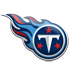
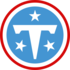
Fix standings download, updated TEN image

diff --git a/file_downloader.rb b/file_downloader.rb
@@ -1,21 +1,85 @@
 require 'open-uri'
+require 'nokogiri'
 require_relative 'file_helper_methods'
 
 include FileHelperMethods
 
 class FileDownloader
+  STANDINGS_URL = 'https://www.nfl.com/standings/'
+
+  # NFL.com uses some abbreviations that differ from Pro-Football-Reference.
+  # Map them so the existing standings resolver can match the config files.
+  ABBREVIATION_MAP = {
+    'AZ'  => 'ARI',
+    'LA'  => 'LAR',
+    'NE'  => 'NWE',
+    'GB'  => 'GNB',
+    'NO'  => 'NOR',
+    'TB'  => 'TAM',
+    'KC'  => 'KAN',
+    'LV'  => 'LVR',
+    'SF'  => 'SFO'
+  }.freeze
+
   def self.get_current_nfl_standings_html
-    file_data = URI.open("https://www.pro-football-reference.com/").read
-    afc = self.parse_section(file_data, /\<div.*id=\"div_AFC\">/)
-    nfc = self.parse_section(file_data, /\<div.*id=\"div_NFC\">/)
-    afc + nfc
+    html = URI.open(STANDINGS_URL, 'User-Agent' => user_agent).read
+    build_standings_html(Nokogiri::HTML(html))
   end
 
-  def self.parse_section(file_data, start_regex)
-    critical_section_start_position = file_data.match(start_regex).begin(0)
-    critical_section_start = file_data[critical_section_start_position..]
-    end_regex = /\<\/div\>/
-    critical_section_end_position = critical_section_start.match(end_regex).end(0)
-    critical_section = critical_section_start[0..critical_section_end_position]
+  def self.build_standings_html(document)
+    afc_rows = []
+    nfc_rows = []
+
+    document.css('table.d3-o-standings--detailed').each do |table|
+      header_text = table.at_css('thead th')&.text.to_s
+      conference = conference_from_header(header_text)
+      next unless conference
+
+      table.css('tbody tr').each do |row|
+        tds = row.css('td')
+        next if tds.size < 4
+
+        team_abbr = extract_team_abbreviation(row)
+        next unless team_abbr
+
+        row_html = build_team_row(team_abbr, tds)
+        if conference == 'AFC'
+          afc_rows << row_html
+        else
+          nfc_rows << row_html
+        end
+      end
+    end
+
+    wrap_table('AFC', afc_rows) + wrap_table('NFC', nfc_rows)
+  end
+
+  def self.extract_team_abbreviation(row)
+    logo_src = row.at_css('img')&.[]('src')
+    return unless logo_src
+
+    logo_src[/logos\/(\w+)/, 1]&.upcase
+  end
+
+  def self.conference_from_header(header_text)
+    return 'AFC' if header_text.start_with?('AFC')
+    return 'NFC' if header_text.start_with?('NFC')
+  end
+
+  def self.build_team_row(abbreviation, cells)
+    team_code = ABBREVIATION_MAP.fetch(abbreviation, abbreviation)
+    wins = cells[1].text.strip
+    losses = cells[2].text.strip
+    ties = cells[3].text.strip
+
+    %(<tr><th scope="row"><a>#{team_code}</a></th><td data-stat="wins">#{wins}</td><td data-stat="losses">#{losses}</td><td data-stat="ties">#{ties}</td></tr>)
+  end
+
+  def self.wrap_table(conference, rows)
+    %(<div class="table_container" id="div_#{conference}"><table id="#{conference}"><tbody>#{rows.join}</tbody></table></div>)
+  end
+
+  def self.user_agent
+    'Mozilla/5.0 (Windows NT 10.0; Win64; x64) AppleWebKit/537.36 (KHTML, like Gecko) Chrome/128.0.0.0 Safari/537.36'
   end
 end

diff --git a/standings_resolver.rb b/standings_resolver.rb
@@ -23,7 +23,7 @@ class StandingsResolver
         memo[:wins] += team[:wins].to_i
         memo[:losses] += team[:losses].to_i
         memo[:ties] += team[:ties].to_i
-        memo[:games] += memo[:wins].to_i + memo[:losses].to_i + memo[:ties].to_i
+        memo[:games] += team[:wins].to_i + team[:losses].to_i + team[:ties].to_i
         memo
       end
       owner_totals[:teams] = selected_teams.sort{|a, b| a[:wins] <=> b[:wins]}

diff --git a/html_resolver.rb b/html_resolver.rb
@@ -6,7 +6,7 @@ class HtmlResolver
     standings_file = File.open('./html/standings.erb')
     standings_template = standings_file.read
     standings_file.close
-    processor = ERB.new(standings_template, 0, "%<>")
+    processor = ERB.new(standings_template, trim_mode: "%<>")
     processor.result(binding)
   end
 end
